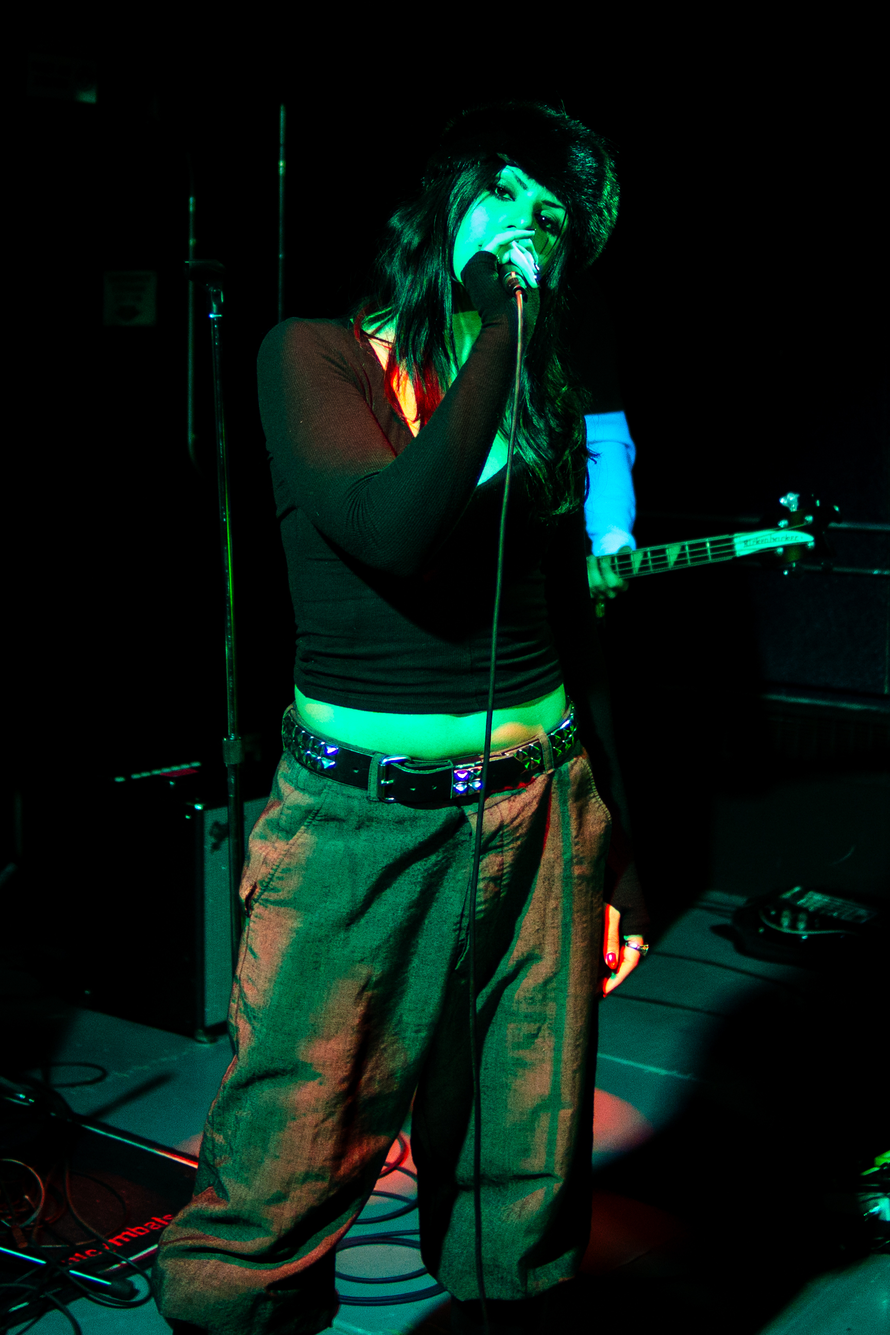
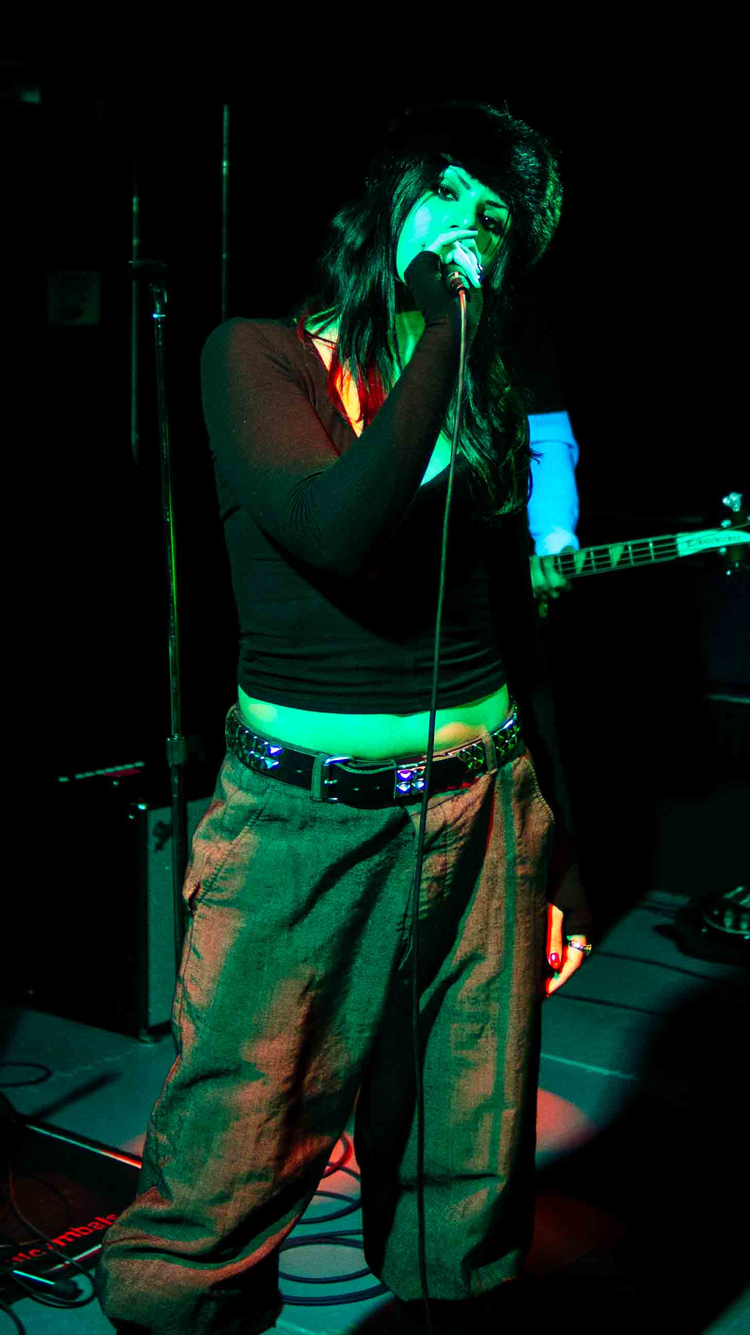
Fixed the entire photography.html organization

diff --git a/photography.html b/photography.html
@@ -16,7 +16,7 @@
         <span><a href="about.html">About</a></span>
     </div>
 
-    <h1>Shot by Asc-nd</h1>
+    <h1>Shot by Ascnd(Ascnd.JPG)</h1>
 
     <h2>Digital Photography</h2>
     <div class="photos" id="digital">
@@ -44,20 +44,29 @@
 
         <img src="images/digital/NL1.jpg" alt="Northern Lights">
         <img src="images/digital/NL2.jpg" alt="Northern Lights">
+        <img src="images/digital/.jpg" alt="">
+
+
         <img src="images/digital/r34.jpg" alt="R34">
+        <img src="images/digital/.jpg" alt="">
+        <img src="images/digital/.jpg" alt="">
+
 
         <img src="images/digital/pts1.jpg" alt="Yellow/Green 911">
         <img src="images/digital/pts2.jpg" alt="Purple 911">
+        <img src="images/digital/taraneh2.jpg" alt="Taraneh">
+
+
 
         <img src="images/digital/SVK1.jpg" alt="BBJ">
         <img src="images/digital/SVK2.jpg" alt="BJJ">
+        <img src="images/digital/.jpg" alt="">
 
         <img src="images/digital/midd.JPG" alt="New Chapel">
         <img src="images/digital/zev.jpg" alt="Zev">
         <img src="images/digital/dxHorrorMag.png" alt="Devin">
 
         <img src="images/digital/taraneh1.jpg" alt="Taraneh">
-        <img src="images/digital/taraneh2.jpg" alt="Taraneh">
 
         <img src="images/digital/aGentlemansGuideToLoveAndMurder.jpg" alt="A Gentleman's Guide to Love and Murder">
 
@@ -69,46 +78,39 @@
 
     <h2>Film Photography</h2>
     <div class="photos" id="film">
-        <img src="images/film/6Train.jpg" alt="">
+        <img src="images/film/6Train.jpg" alt="6 train">
+        <img src="images/film/bookstore.jpg" alt="Middlebury Bookstore">
+        <img src="images/film/gala.jpg" alt="Midd IVCF Gala">
 
-        <img src="images/film/930.jpg" alt="">
+        <img src="images/film/930.jpg" alt="Porsche 930">
+        <img src="images/film/banana.jpg" alt="Coney Island Banana">
+        <img src="images/film/goLong.jpg" alt="Coney Island Football">
 
-        <img src="images/film/banana.jpg" alt="">
+        <img src="images/film/jeffComp1.jpg" alt="Jeff Sticky Fingers">
+        <img src="images/film/jeffComp2.jpg" alt="Jeff Sticky Fingers">
+        <img src="images/film/jeffComp3.jpg" alt="Jeff Sticky Fingers">
 
-        <img src="images/film/bjj1.jpg" alt="">
+        <img src="images/film/silverSpur.jpg" alt="Silver Spur">
+        <img src="images/film/st.Pauls.jpg" alt="St. Pauls">
+        <img src="images/film/michael.jpg" alt="Michael the Archangel">
 
-        <img src="images/film/bookstore.jpg" alt="">
+        <img src="images/film/orthodoxIcon.jpg" alt="St. Georges Byzantine Catholic">
+        <img src="images/film/bjj1.jpg" alt="Jeff and Stephen">
+        <img src="images/film/st.Marys.jpg" alt="St. Mary's Cemetary">
 
-        <img src="images/film/gala.jpg" alt="">
+        <img src="images/film/protest.jpg" alt="Burlington Protest">
+        <img src="images/film/protest1.jpg" alt="Union Square Protest">
+        <img src="images/film/protest2.jpg" alt="Union Square Protest">
 
-        <img src="images/film/goLong.jpg" alt="">
+        <img src="images/film/r33.jpg" alt="Nissan R33 GTR Wheel">
 
-        <img src="images/film/jeffComp1.jpg" alt="">
-        <img src="images/film/jeffComp2.jpg" alt="">
-        <img src="images/film/jeffComp3.jpg" alt="">
+        <img src="images/film/partyBus.jpg" alt="Party Bust">
 
-        <img src="images/film/michael.jpg" alt="">
+        <img src="images/film/tea.jpg" alt="Tea Set">
 
-        <img src="images/film/orthodoxIcon.jpg" alt="">
+        <img src="images/film/theFaceOfDespair.jpg" alt="The Face of Despair">
 
-        <img src="images/film/partyBus.jpg" alt="">
-
-        <img src="images/film/protest.jpg" alt="">
-        <img src="images/film/protest1.jpg" alt="">
-        <img src="images/film/protest2.jpg" alt="">
-
-        <img src="images/film/r33.jpg" alt="">
-        <img src="images/film/silverSpur.jpg" alt="">
-
-        <img src="images/film/st.Marys.jpg" alt="">
-
-        <img src="images/film/st.Pauls.jpg" alt="">
-
-        <img src="images/film/tea.jpg" alt="">
-
-        <img src="images/film/theFaceOfDespair.jpg" alt="">
-
-        <img src="images/film/sophia.jpg" alt="">
+        <img src="images/film/sophia.jpg" alt="Sophia">
 
     </div>
 </body>
